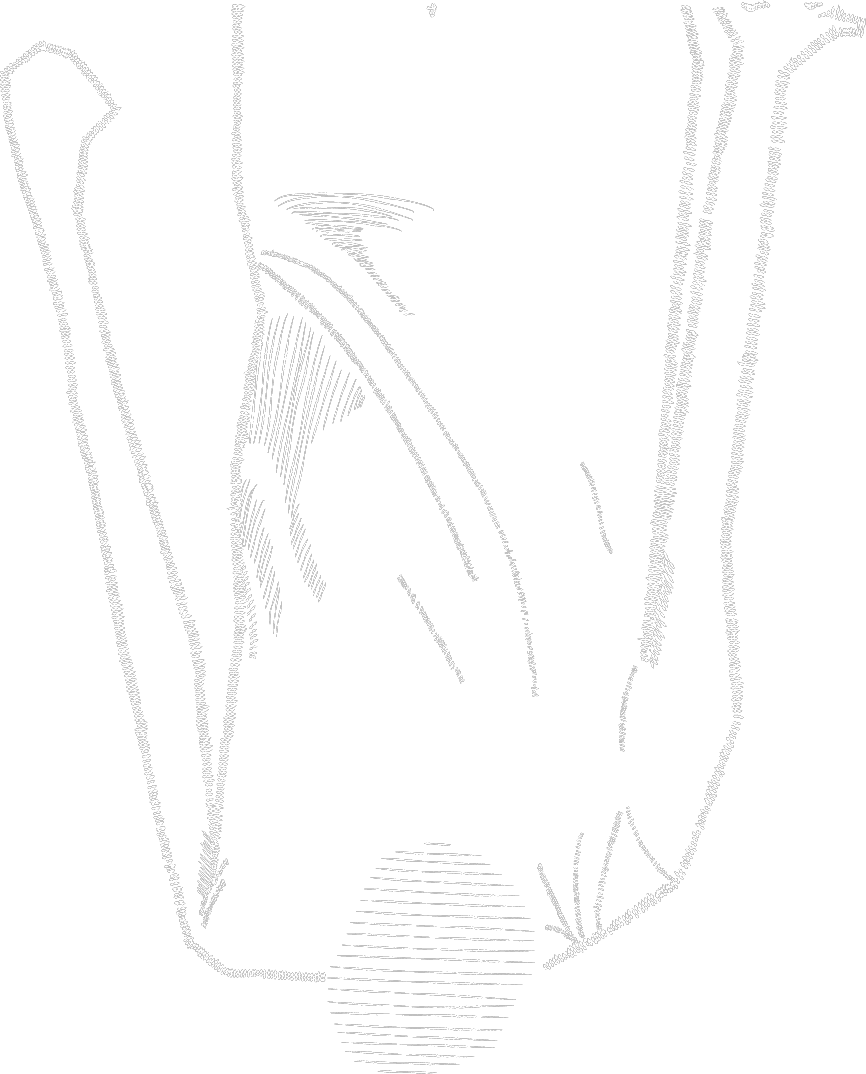
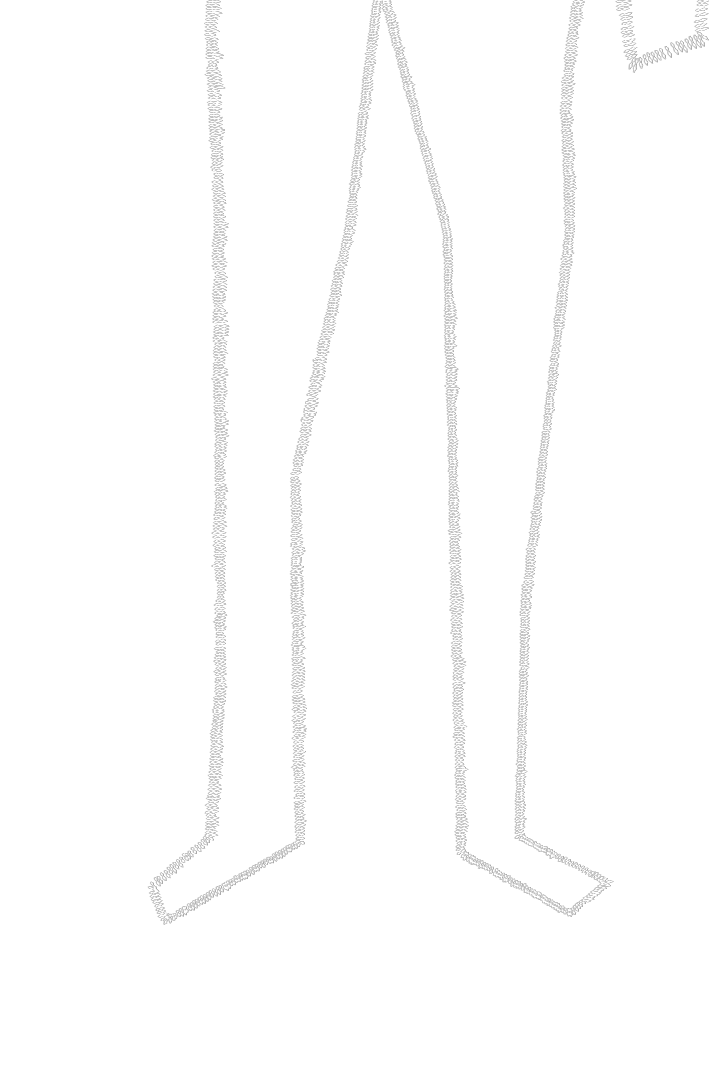
Añadido alargamiento de cuerda y efecto blur-in
se añadió una cuerda más larga, la lógica del observador, y un efecto blur-in a la primera frase.

Tiene Bug, el efecto del observador solo funciona cuando se guarda el código.

diff --git a/src/App.jsx b/src/App.jsx
@@ -9,6 +9,8 @@ import sujetoPrincipalTop from './img/sujetoPrincipalTop.png'
 import sujetoPrincipalBottom from './img/sujetoPrincipalBottom.png'
 /* import bala from './img/bala.png' */
 import cuerda from './img/cuerda.png'
+import CuerdaExt from './img/CuerdaExt.png'
+import CuerdaExt1 from './img/CuerdaExt1.png'
 /* import pildoras from './img/pildoras.png' */
 
 export default function App() {
@@ -16,21 +18,46 @@ export default function App() {
 
     const [elemento1, isIntersecting] = useIntersection({
         root: null,
-        treshold: 1.0,
-        rootmargin: '0px',
+        threshold: 0.5,
+        rootmargin: '-200px'
+    })
+    const [elemento2, isIntersecting2] = useIntersection({
+        root: null,
+        threshold: 0.5,
+        rootmargin: '-200px'
     })
 
     return (
         <div className='App'>
             <Parallax pages={20} style={{ top: '0', left: '0' }}>
+                <div>
+                    <ParallaxLayer offset={0} speed={0.01}>
+                        <img src={CuerdaExt} alt='Hombre Colgado' style={{ height: '102vh', zIndex: '-1', display: 'flex', alignItems: 'start', marginLeft: '26%' }} />
+                    </ParallaxLayer>
+                    <ParallaxLayer offset={1} speed={0.01}>
+                        <img src={CuerdaExt1} alt='Hombre Colgado' style={{ height: '102vh', zIndex: '-1', display: 'flex', alignItems: 'start', marginLeft: '25%' }} />
+                    </ParallaxLayer>
+                    <ParallaxLayer offset={2} speed={0.01}>
+                        <img src={CuerdaExt} alt='Hombre Colgado' style={{ height: '102vh', zIndex: '-1', display: 'flex', alignItems: 'start', marginLeft: '24%' }} />
+                    </ParallaxLayer>
+                    <ParallaxLayer offset={3} speed={0.01}>
+                        <img src={CuerdaExt1} alt='Hombre Colgado' style={{ height: '102vh', zIndex: '-1', display: 'flex', alignItems: 'start', marginLeft: '23%' }} />
+                    </ParallaxLayer>
+                    <ParallaxLayer offset={4} speed={0.01}>
+                        <img src={CuerdaExt} alt='Hombre Colgado' style={{ height: '102vh', zIndex: '-1', display: 'flex', alignItems: 'start', marginLeft: '22%' }} />
+                    </ParallaxLayer>
+                </div>
                 {/* ALBERT CAMUS ------------------------------------ */}
                 <ParallaxLayer offset={0} speed={0.5} style={{ ...alignCenter, justifyContent: 'center', width: '70%', marginLeft: '15%' }} id="presentacion">
-                    <h6>
-                        Pero, ¿qué son cien millones de muertos? Cuando se ha hecho la guerra apenas sabe ya nadie lo que es un muerto. Y además un hombre muerto solamente tiene peso cuando le ha visto uno muerto; cien millones de cadáveres son más que humo en la imaginación.
-                        <br />
-                        <br />
-                        <strong>Albert Camus</strong>
-                    </h6>
+                    <div ref={elemento1} className={isIntersecting ? 'blur-in' : 'blur-out'}>
+                        <h6>
+                            Pero, ¿qué son cien millones de muertos? Cuando se ha hecho la guerra apenas sabe ya nadie lo que es un muerto. Y además un hombre muerto solamente tiene peso cuando le ha visto uno muerto; cien millones de cadáveres son más que humo en la imaginación.
+                            <br />
+                            <br />
+                            <strong>Albert Camus</strong>
+                        </h6>
+                    </div>
+
                 </ParallaxLayer>
                 {/* ESTADÍSTICA ------------------------------------- */}
                 <ParallaxLayer offset={1} speed={0.5} sticky={{ start: 1, end: 3 }} style={{ ...alignCenter, justifyContent: 'center' }}>
@@ -47,7 +74,7 @@ export default function App() {
                 <ParallaxLayer offset={4} sticky={{ start: 5, end: 7 }} style={{ display: 'flex', marginRight: '50%', marginLeft: '15%', width: '45%' }} id="">
                     <img src={cuerda} alt='Cuerda' />
                 </ParallaxLayer>
-                <ParallaxLayer offset={5} sticky={{ start: 5, end: 5 }} style={{ display: 'flex', textAlign: 'left', marginLeft: '50%', width: '45%', paddingTop: '10%' }} id="">
+                <ParallaxLayer offset={4} sticky={{ start: 4, end: 5 }} style={{ display: 'flex', textAlign: 'left', marginLeft: '50%', width: '45%', paddingTop: '10%' }}>
                     <p>
                         Hace un par de meses, tal vez hace ya un año, la noticia del sucidio de una estudiante recorrió los pasillos de mi universidad. Como con la mayoría de sucesos, uno se entera por medio de los rumores, la información y los datos se transfiguran. Y nosotros, como estudiantes, nos enteramos por medio de la directora de manera oficial, pasadas unas semanas. El ambiente en los corredores universitarios se tornó silencioso, gris y sobrio. Realmente no sabías si se debía discutir, platicar, comentar o debatir sobre el tema. Y no de la víctima en sí o del suceso, sino del acto de suicidarse. Algunas inquietudes se sembraron en la mente de mis compañeros:
                     </p>
@@ -83,7 +110,7 @@ export default function App() {
                 </ParallaxLayer>
                 <ParallaxLayer offset={10} sticky={{ start: 10, end: 11 }} speed={0.5} style={{ display: 'flex', justifyContent: 'flex-end' }} id="datos">
                     <div style={{ textAlign: 'justify', width: '25%', marginRight: '8%' }}>
-                        <h3>
+                        <h3 ref={elemento2} className={isIntersecting ? 'blur-in' : 'blur-out'}>
                             Medio
                         </h3>
                         <p>

diff --git a/src/logic/useIntersection.jsx b/src/logic/useIntersection.jsx
@@ -1,9 +1,4 @@
 import { useState, useRef, useEffect } from 'react'
-/**
- * Custom hook that detects if an element is intersecting with the viewport.
- * @param {Object} options - An optional object with configuration options for the IntersectionObserver.
- * @returns {Array} - An array containing a ref to the element and a boolean value indicating if it is intersecting.
- */
 function useIntersection(options = {}) {
     const [isIntersecting, setIsIntersecting] = useState(false);
     const elementRef = useRef();

diff --git a/src/index.css b/src/index.css
@@ -1,6 +1,9 @@
 :root {
   color-scheme: light dark;
-  color: rgba(255, 255, 255, 0.87);
+  /* color: rgba(255, 255, 255, 0.87);
   background: #000000;
-  background: linear-gradient(0deg, rgba(0, 0, 0, 1) 0%, rgba(32, 32, 32, 1) 58%, rgba(36, 36, 36, 1) 100%);
+  background: linear-gradient(0deg, rgba(0, 0, 0, 1) 0%, rgba(32, 32, 32, 1) 58%, rgba(36, 36, 36, 1) 100%);*/
+  background-image: url("./img/FondoHoja.png");
+  background-repeat: no-repeat;
+  background-size: cover;
 }

diff --git a/src/App.css b/src/App.css
@@ -104,11 +104,11 @@ h6 {
   }
 }
 
-.blur-out-expand {
+.blur-out {
   animation: blur-out-expand 0.5s linear both
 }
 
-@keyframes blur-out-expand {
+@keyframes blur-out {
   0% {
     transform: scale(1);
     filter: blur(.01px);
